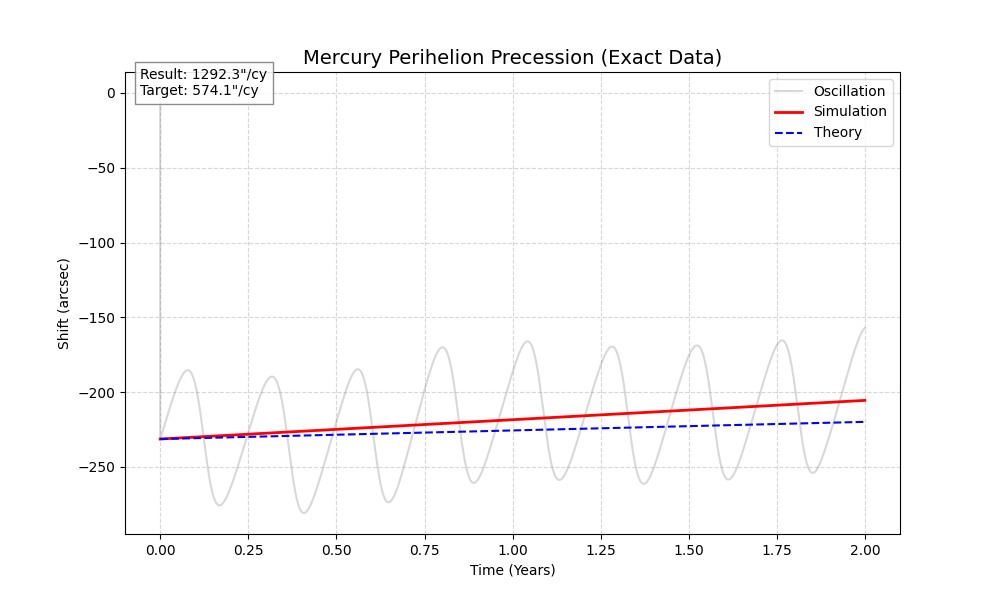
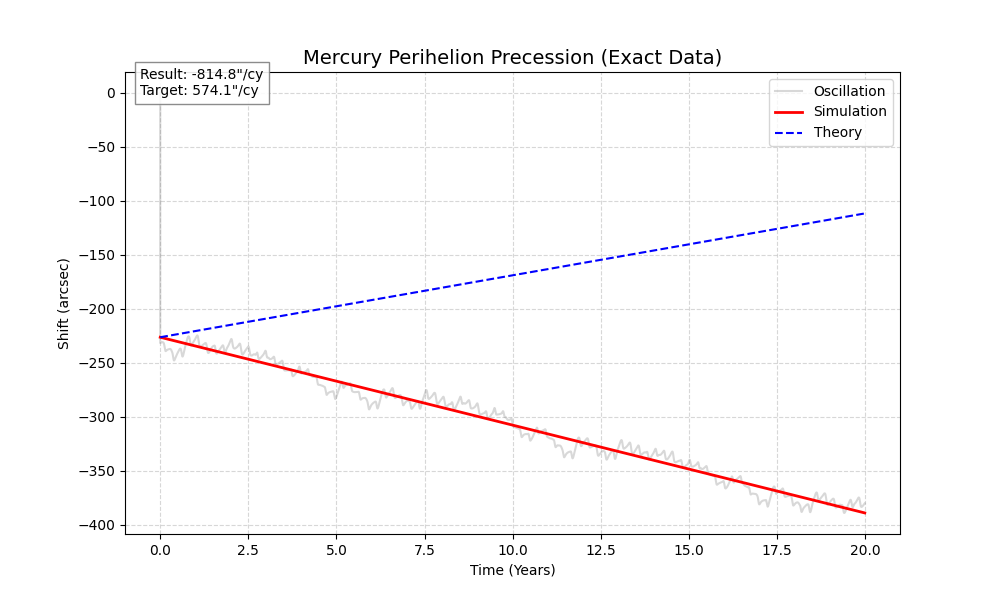
change save and load func and create utils and consts files

diff --git a/utils.py b/utils.py
@@ -1,0 +1,93 @@
+import csv
+import json
+import os
+import numpy as np
+
+from models import Planet
+
+def save_data(planets: list[Planet], folder: str = "assets/data"):
+    """Сохраняет данные в CSV (траектории) и JSON (свойства планет)"""
+    os.makedirs(folder, exist_ok=True)
+    
+    metadata = []
+    
+    print(f"Saving text data to {folder}/ ...")
+    
+    for p in planets:
+        # 1. Сохраняем траекторию в CSV
+        csv_filename = f"{p.name}.csv"
+        csv_path = os.path.join(folder, csv_filename)
+        
+        # Считаем, что длины всех массивов совпадают
+        rows = zip(p.path_x, p.path_y, p.path_z, p.path_vx, p.path_vy, p.path_vz)
+        
+        with open(csv_path, 'w', newline='', encoding='utf-8') as f:
+            writer = csv.writer(f)
+            writer.writerow(['x', 'y', 'z', 'vx', 'vy', 'vz']) # Заголовки
+            writer.writerows(rows)
+            
+        # 2. Готовим метаданные
+        metadata.append({
+            "name": p.name,
+            "color": p.color,
+            "mass": p.mass,
+            "csv_file": csv_filename,
+            # Сохраним последнее состояние для инициализации r/u при загрузке (опционально)
+            "last_r": list(p.r),
+            "last_u": list(p.u)
+        })
+        
+    # 3. Сохраняем описание системы в JSON
+    with open(os.path.join(folder, "system_manifest.json"), 'w', encoding='utf-8') as f:
+        json.dump(metadata, f, indent=2)
+        
+    print(f"Saved {len(planets)} planets.")
+
+def load_data(folder: str = "assets/data") -> list[Planet]:
+    manifest_path = os.path.join(folder, "system_manifest.json")
+    if not os.path.exists(manifest_path):
+        raise FileNotFoundError(f"Manifest not found: {manifest_path}")
+
+    with open(manifest_path, 'r', encoding='utf-8') as f:
+        metadata = json.load(f)
+    
+    planets = []
+    print(f"Loading {len(metadata)} planets from text files...")
+
+    for meta in metadata:
+        # Восстанавливаем базовый объект
+        # r/u здесь не так важны, так как мы сейчас перезапишем историю, 
+        # но для корректности конструктора берем из метаданных или нули.
+        r_init = np.array(meta.get("last_r", [0,0,0]), dtype=np.float64)
+        u_init = np.array(meta.get("last_u", [0,0,0]), dtype=np.float64)
+        
+        p = Planet(
+            mass=meta["mass"],
+            r=r_init,
+            u=u_init,
+            name=meta["name"],
+            color=meta["color"]
+        )
+        
+        # Читаем CSV с траекторией. 
+        # Используем pandas, если есть, или стандартный csv/numpy для скорости.
+        # Ниже вариант на чистом numpy (быстрее для чисел):
+        csv_path = os.path.join(folder, meta["csv_file"])
+        
+        # skiprows=1 пропускает заголовок
+        # usecols=(0,1,2,3,4,5) читает x,y,z,vx,vy,vz
+        data = np.loadtxt(csv_path, delimiter=',', skiprows=1)
+        
+        # Данные загружаются как (N, 6). Транспонируем для удобства
+        # data[:, 0] -> весь столбец x
+        p.path_x = data[:, 0].tolist()
+        p.path_y = data[:, 1].tolist()
+        p.path_z = data[:, 2].tolist()
+        p.path_vx = data[:, 3].tolist()
+        p.path_vy = data[:, 4].tolist()
+        p.path_vz = data[:, 5].tolist()
+        
+        planets.append(p)
+        print(f"  - Loaded {p.name}: {len(p.path_x)} points")
+        
+    return planets

diff --git a/simulation.py b/simulation.py
@@ -1,15 +1,11 @@
-import pickle
 import numpy as np
 import numpy.typing as npt
 
 from models import Planet, Forces
 from ephemeris import get_j2000_state
+from utils import save_data
 
-G = 6.674e-11
-C = 299.8e6
-M_SUN = 1.989e30
-AU = 1.496e11
-DIM = np.array([0, 0, 0])
+from consts import *
 
 def mod(arr: npt.NDArray[np.float64]) -> np.float64:
   return np.float64(np.linalg.norm(arr))
@@ -67,12 +63,6 @@ def move_calculate(dt, planets: list[Planet], forces: Forces) -> None:
   for planet in planets:
     planet.record_state()
 
-def save_data(planets: list[Planet], filename: str = "assets/simulation_data.pkl"):
-    """Сохраняет список объектов планет в бинарный файл"""
-    with open(filename, 'wb') as f:
-        pickle.dump(planets, f)
-    print(f"Data successfully saved to {filename}")
-
 def main() -> None:
   planets_names = ["Mercury", "Venus", "Earth", "Mars", "Jupiter", "Saturn", "Uranus", "Neptune"]
   colors = ["gray", "yellow", "blue", "red", "orange", "gold", "lightblue", "darkblue"]
@@ -111,9 +101,8 @@ def main() -> None:
   forces.registrate(EinsteinF)
 
   # dt = 1 час. Для Меркурия это ок, для Нептуна это очень детально.
-  dt = 60 
   t = 0
-  total_time = 1.0 * 365 * 24 * 3600 * 2
+  total_time = 1.0 * 365 * 24 * 3600 * 20
 
   print(f"Start simulation: {total_time/3600/24/365:.2f} Earth years...")
 
@@ -122,13 +111,13 @@ def main() -> None:
       acc_calculate(planet, all_planets, forces)
       
   # Основной цикл
-  steps = int(total_time / dt)
+  steps = int(total_time / DT)
   check_interval = steps // 10 # Вывод прогресса 10 раз за симуляцию
   
   step_count = 0
   while t < total_time:
-      move_calculate(dt, all_planets, forces)
-      t += dt
+      move_calculate(DT, all_planets, forces)
+      t += DT
       step_count += 1
       if step_count % check_interval == 0:
           print(f"Progress: {int(t/total_time*100)}%")

diff --git a/plot_sim.py b/plot_sim.py
@@ -1,4 +1,4 @@
-import pickle
+from utils import load_data
 import numpy as np
 import matplotlib.pyplot as plt
 
@@ -6,12 +6,6 @@ from models import Planet
 from visualizer import animate_orbits
 
 __all__ = ["plot"]
-
-def load_data(filename: str = "assets/simulation_data.pkl") -> list[Planet]:
-    with open(filename, 'rb') as f:
-        planets = pickle.load(f)
-    print(f"Loaded {len(planets)} planets from {filename}")
-    return planets
 
 def plot_static(planets: list[Planet], filename: str = "./assets/sim.png") -> None:
   plt.figure(figsize=(8, 8))

diff --git a/verify_gr.py b/verify_gr.py
@@ -1,18 +1,8 @@
-import pickle
+from utils import load_data
 import numpy as np
 import matplotlib.pyplot as plt
 from models import Planet
-
-# Константы
-DT = 60 # Должно совпадать с simulation.py!
-G = 6.6743e-11
-M_SUN = 1.989e30
-ARCSEC_PER_RAD = 206264.8
-
-def load_data(filename: str = "assets/simulation_data.pkl") -> list[Planet]:
-    with open(filename, 'rb') as f:
-        planets = pickle.load(f)
-    return planets
+from consts import *
 
 def get_relative_vectors(mercury, sun):
     """

diff --git a/consts.py b/consts.py
@@ -1,0 +1,9 @@
+import numpy as np
+
+G = 6.674e-11
+C = 299.8e6
+M_SUN = 1.989e30
+AU = 1.496e11
+DT = 3600
+DIM = np.array([0, 0, 0])
+ARCSEC_PER_RAD = 206264.8
